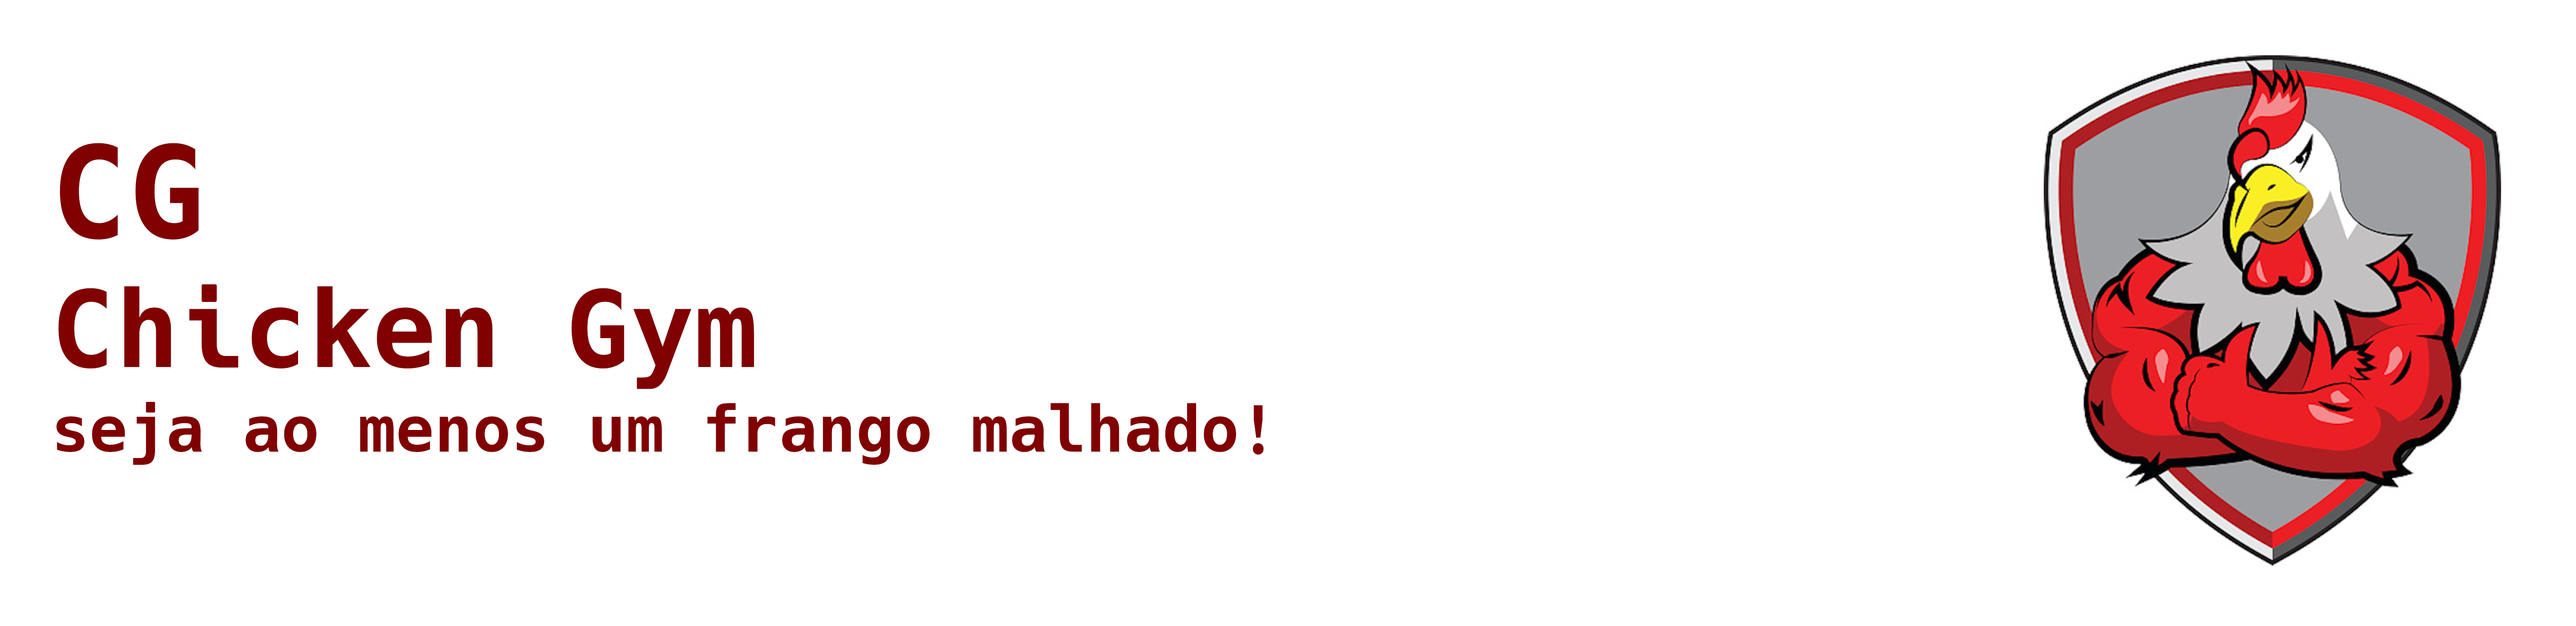
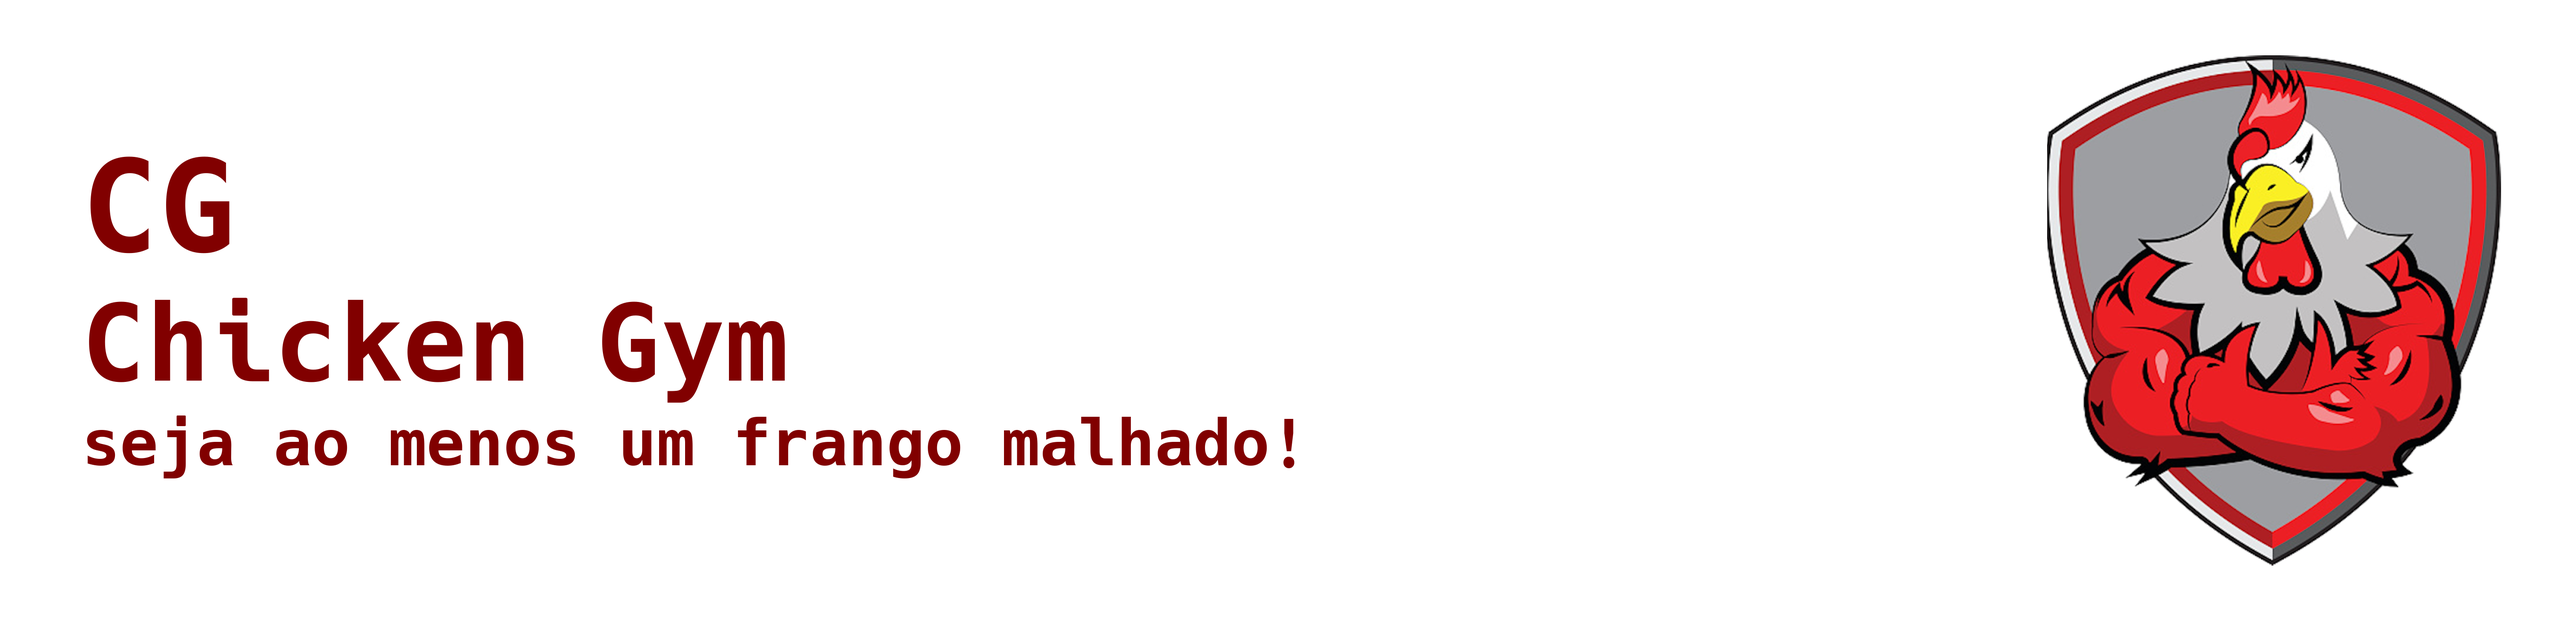
implementando cadastro

Changed region(s): [[0.0, 0.4375, 0.4998, 0.7812], [0.0, 0.2188, 0.0937, 0.4062]]

diff --git a/app/templates/login.html b/app/templates/login.html
@@ -1,32 +1,53 @@
 {% extends 'base.html' %}
 {% block title %}{{ super() }} - login{% endblock %}
-{#{% block head %}#}
-{#    {{ super() }}#}
-{#    <style>#}
-{#        .sessionlogin{#}
-{#            #}
-{#        }#}
-{#    </style>#}
-{#{% endblock %}#}
+{% block head %}
+    {{ super() }}
+    <style>
+        .formulario {
+            background: white;
+            border-radius: 10px;
+            padding: 10px;
+            border: darkred 1px solid;
+            {#position: center;#}
+            {#margin-left: 25vw;#}
+            {#margin-right: 25vw;#}
+            {#max-width: 80vw;#}
+        }
+
+        .sessionlogin{
+            padding-bottom: 50px;
+        }
+
+        .esqueci {
+            padding-top: 10px;
+        }
+    </style>
+{% endblock %}
 {% block content %}
-    <div class="sessionlogin text-center respo">
-        <div class="col-md-4 col-md-offset-4">
-            <h1 class="h3 mb-3 font-weight-normal">Entrar no CG-Admin</h1>
+    <div class="sessionlogin text-center">
+        <div class="formulario col-md-4 col-md-offset-4">
+            <h1 class="h3 mb-3 font-weight-normal" style="color: darkred">Entrar no CG-Admin</h1>
             <form action="" method="POST">
-                {{ form.csrf_token }}
-                <div class="form-group">
-                    {{ form.username(class="form-control", placeholder="Insira seu usuário") }}
+                <div class="box">
+                    {{ form.csrf_token }}
+                    <div class="form-group">
+                        {{ form.username(class="form-control", placeholder="Insira seu usuário") }}
+                    </div>
+                    <div class="form-group">
+                        {{ form.password(class="form-control", placeholder="Insira sua senha") }}
+                    </div>
+                    <div class="checkbox">
+                        <label>
+                            {{ form.remember_me }} Lembrar-me
+                        </label>
+                    </div>
+                    <button class="btn btn-lg btn-primary btn-block" type="submit">Entrar</button>
                 </div>
-                <div class="form-group">
-                    {{ form.password(class="form-control", placeholder="Insira sua senha") }}
-                </div>
-                <div class="checkbox">
-                    <label>
-                        {{ form.remember_me }} Lembrar-me
-                    </label>
-                </div>
-                <button class="btn btn-lg btn-primary btn-block" type="submit">Entrar</button>
             </form>
+            <p class="esqueci">
+                Forgot your password?<br>
+                <a class="fpwd" href="#">Click Here!</a>
+            </p>
         </div>
     </div>
 {% endblock %}

diff --git a/app/templates/base.html b/app/templates/base.html
@@ -4,10 +4,10 @@
     {% block head %}
         <meta charset="utf-8">
         <meta http-equiv="X-UA-Compatible" content="IE=edge">
-        <meta name="viewport" content="width=device-width, initial-scale=1">
+        <meta name="viewport" content="width=device-width, initial-scale=1, maximum-scale=1, user-scalable=no">
         <!-- The above 3 meta tags *must* come first in the head; any other head content must come *after* these tags -->
         <meta name="description" content="">
-        <meta name="author" content="">
+        <meta name="author" content="Pedro Sousa">
         <link rel="icon" href="{{ url_for('static', filename="img/icon.png") }}">
         <link rel="canonical" href="https://getbootstrap.com/docs/3.4/examples/jumbotron-narrow/">
 
@@ -18,23 +18,34 @@
 
         <div class="banner">
             <a href="{{ url_for('index') }}">
-            <img class="img-responsive center-block" src="{{ url_for('static', filename="img/banner.svg") }}" alt=""
-                 height="250">
+                <img class="banner img-responsive center-block"
+                     src="{{ url_for('static', filename="img/banner.png") }}">
             </a>
         </div>
 
         <style>
             body {
-                min-height: 80vh;
+                background-size: cover;
+                background: url({{ url_for('static', filename="img/background.jpg") }}) fixed center center;
+                {#background-size: 100vw;#}
+                min-height: 40vh;
                 position: relative;
-                margin: 50px;
-                bottom: 50px;
+                margin: auto;
+                padding-bottom: auto;
             }
 
             .footer {
-                padding-bottom: auto;
-                position: absolute;
-                bottom: -30px;
+                position: fixed;
+                left: 0;
+                bottom: 0;
+                width: 100%;
+                background-color: darkred;
+                color: darkgray;
+                text-align: center;
+            }
+
+            img.banner {
+                max-width: 80vw;
             }
         </style>
     {% endblock %}
@@ -67,7 +78,11 @@
     {% block footer %}
         <footer class="footer">
             <div class="text-center">
-                <small>&copy; Copyright 2019, Chicken Dev Corporation</small>
+                <strong>
+                    <small>
+                        &copy; Copyright 2019, Chicken Dev Corporation
+                    </small>
+                </strong>
             </div>
         </footer>
     {% endblock %}

diff --git a/app/templates/conteudo.html b/app/templates/conteudo.html
@@ -1,0 +1,67 @@
+{% extends 'home.html' %}
+{% block title %}
+    {{ super() }} - Cadastro de Usuário
+{% endblock %}
+{% block head %}
+    {{ super() }}
+    <style>
+        .cadastro {
+            color: darkred;
+            padding-bottom: 10vh;
+            min-width: 50vw;
+        }
+
+        .titulo {
+            text-transform: uppercase;
+        }
+    </style>
+{% endblock %}
+{% block content %}
+    {{ super() }}
+    <div class="cadastro container-fluid">
+        <h2 class="titulo">
+            Cadastro de Usuário
+        </h2>
+        <div>
+            <form action="" method="post">
+                {{ form.hidden_tag() }}
+                <p>
+                    {{ form.name.label }}<br>
+                    {{ form.name(size=100) }}<br>
+                    {#                    {% for error in form.name.errors %}#}
+                    {#                        <span style="color: red;">[{{ error }}]</span>#}
+                    {#                    {% endfor %}#}
+                </p>
+                <p>
+                    {{ form.username.label }}<br>
+                    {{ form.username(size=80) }}<br>
+                    {% for error in form.username.errors %}
+                        <span style="color: red;">[{{ error }}]</span>
+                    {% endfor %}
+                </p>
+                <p>
+                    {{ form.email.label }}<br>
+                    {{ form.email(size=80) }}<br>
+                    {% for error in form.email.errors %}
+                        <span style="color: red;">[{{ error }}]</span>
+                    {% endfor %}
+                </p>
+                <p>
+                    {{ form.password.label }}<br>
+                    {{ form.password(size=32) }}<br>
+                    {% for error in form.password.errors %}
+                        <span style="color: red;">[{{ error }}]</span>
+                    {% endfor %}
+                </p>
+                <p>
+                    {{ form.password2.label }}<br>
+                    {{ form.password2(size=32) }}<br>
+                    {% for error in form.password2.errors %}
+                        <span style="color: red;">[{{ error }}]</span>
+                    {% endfor %}
+                </p>
+                <p>{{ form.submit() }}</p>
+            </form>
+        </div>
+    </div>
+{% endblock %}

diff --git a/app/templates/home.html b/app/templates/home.html
@@ -68,7 +68,7 @@
                         </a>
                         <ul class="dropdown-menu">
                             <li>
-                                <a href="#usuario">Usuário</a>
+                                <a href="{{ url_for('cadastrar_usuario') }}">Usuário</a>
                             </li>
                             <li>
                                 <a href="#equipamento">Equipamento</a>

diff --git a/app/controller/default.py b/app/controller/default.py
@@ -2,10 +2,10 @@ from urllib.parse import urlparse, urljoin
 
 from flask import render_template, flash, redirect, url_for, request, abort
 from flask_login import login_user, login_required, logout_user, current_user
-from werkzeug.security import check_password_hash
+from werkzeug.security import check_password_hash, generate_password_hash
 
-from app import app, lm
-from app.model.forms import LoginForm
+from app import app, lm, db
+from app.model.forms import LoginForm, RegistrationForm, EquipamentoForm
 from app.model.tables import User
 
 
@@ -68,3 +68,34 @@ def logout():
 @app.errorhandler(404)
 def not_found_page(e):
     return render_template('404.html')
+
+
+@app.route('/pagina/usuario')
+def cadastrar_usuario():
+    form = RegistrationForm()
+    if form.validate_on_submit():
+        name = form.name.data
+        username = form.username.data
+        email = form.email.data
+        password = generate_password_hash(form.password.data)
+        user = User(username, password, name, email)
+        db.session.add(user)
+        db.session.commit()
+        flash('Usuário cadastrado com sucesso!')
+        return redirect(url_for('login'))
+    return render_template('conteudo.html', form=form)
+
+
+@app.route('/pagina/<objeto>/', methods=['GET', 'POST'])
+def pagina(objeto):
+    # if current_user.is_authenticated:
+    #     return redirect(url_for('index'))
+    if objeto == 'usuario':
+        form = RegistrationForm()
+        cadastrar_usuario(form)
+        return redirect(url_for('login'))
+    elif objeto == 'equipamento':
+        form = EquipamentoForm()
+    else:
+        LoginForm()
+    return render_template('conteudo.html', objeto=objeto, title='Register', form=form)

diff --git a/app/model/forms.py b/app/model/forms.py
@@ -1,9 +1,35 @@
 from flask_wtf import FlaskForm
-from wtforms import StringField, PasswordField, BooleanField
-from wtforms.validators import DataRequired
+from wtforms import StringField, PasswordField, BooleanField, SubmitField
+from wtforms.validators import DataRequired, ValidationError, EqualTo, Email
+
+from app.model.tables import User
 
 
 class LoginForm(FlaskForm):
     username = StringField('username', validators=[DataRequired()])
     password = PasswordField('password', validators=[DataRequired()])
     remember_me = BooleanField('remember_me')
+
+
+class RegistrationForm(FlaskForm):
+    name = StringField('Name', validators=[DataRequired()])
+    username = StringField('Username', validators=[DataRequired()])
+    email = StringField('Email', validators=[DataRequired(), Email()])
+    password = PasswordField('Password', validators=[DataRequired()])
+    password2 = PasswordField(
+        'Repeat Password', validators=[DataRequired(), EqualTo('password')])
+    submit = SubmitField('Cadastrar')
+
+    def validate_username(self, username):
+        user = User.query.filter_by(username=username.data).first()
+        if user is not None:
+            raise ValidationError('Use outro nome de usuário, por favor!')
+
+    def validate_email(self, email):
+        user = User.query.filter_by(email=email.data).first()
+        if user is not None:
+            raise ValidationError('Use outro email, por favor!')
+
+
+class EquipamentoForm():
+    modelo = StringField('modelo')
